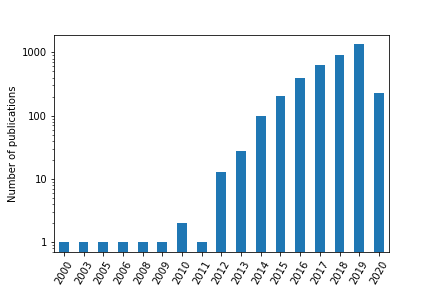
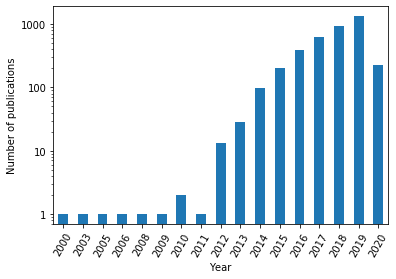
- Updates plots (fixes cut-off labels) - Updates readme

Changed region(s): [[0.0, 0.0573, 0.9697, 1.0], [0.1515, 0.0, 0.9697, 0.0287]]

diff --git a/notebooks/performance_metrics_analysis/README.md b/notebooks/performance_metrics_analysis/README.md
@@ -1,7 +1,7 @@
 # Analysis of performance metrics used for measuring progress in artificial intelligence
 
 This folder contains resources created as part of the paper 'A critical analysis of metrics used for measuring progress in artificial intelligence' (under review). 
-A pre-print of the paper has been published on arXiv: [insert arXiv URL]
+A pre-print of the paper has been published on arXiv: [Pre-print](https://arxiv.org/abs/2008.02577)
 
 ## Resources
 
